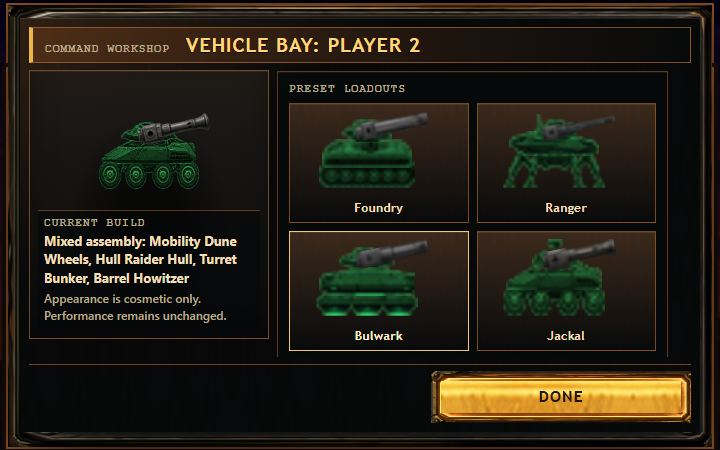
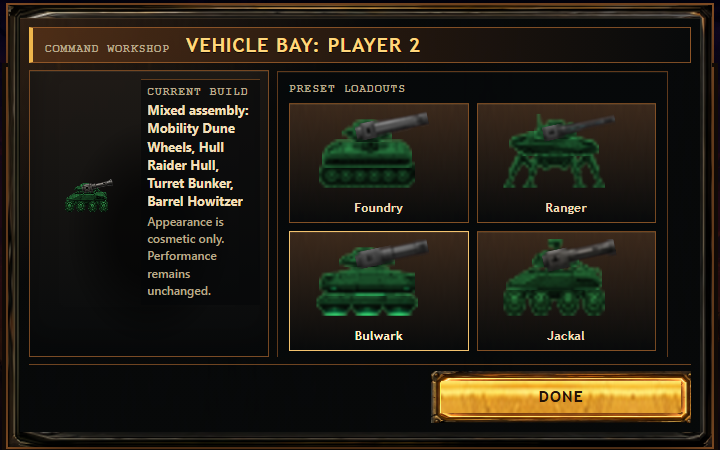
fix(command-center): reconcile browser contracts
Migrate compatibility coverage to direct Garage choices and selected-build inspection.

Preserve 44px compact controls, bound the short-height Vehicle Bay, and refresh provenance-bound Local/Garage evidence.

Changed region(s): [[0.0611, 0.1867, 0.3667, 0.7156]]

diff --git a/e2e/tank-garage.spec.ts b/e2e/tank-garage.spec.ts
@@ -44,27 +44,44 @@ async function assertVehicleBayGeometry(page: Page): Promise<void> {
       return { left: rect.left, right: rect.right, top: rect.top, bottom: rect.bottom, height: rect.height };
     };
     const regions = [
-      dialog.querySelector('.lobby-garage__editor-header'),
-      dialog.querySelector('.lobby-garage__build-summary'),
-      dialog.querySelector('.lobby-garage__preset-group'),
-      dialog.querySelector('.lobby-garage__component-group'),
-      dialog.querySelector('.lobby-garage__close'),
+      dialog.querySelector('.lobby-garage__workshop-header'),
+      dialog.querySelector('.lobby-garage__inspection'),
+      dialog.querySelector('.lobby-garage__editor-scroll'),
+      dialog.querySelector('.lobby-garage__actions'),
     ];
     if (regions.some((region) => region === null)) throw new Error('Vehicle Bay regions are missing');
-    return { dialog: serialize(dialog), regions: regions.map((region) => serialize(region!)) };
+    const editorScroll = regions[2] as HTMLElement;
+    return {
+      dialog: serialize(dialog),
+      regions: regions.map((region) => serialize(region!)),
+      editor: {
+        clientHeight: editorScroll.clientHeight,
+        scrollHeight: editorScroll.scrollHeight,
+        overflowY: getComputedStyle(editorScroll).overflowY,
+      },
+    };
   });
   for (const region of geometry.regions) {
     expect(region.height, 'Vehicle Bay region must remain visible').toBeGreaterThan(4);
     expect(region.left, 'Vehicle Bay region must stay within the dialog').toBeGreaterThanOrEqual(geometry.dialog.left - 1);
     expect(region.right, 'Vehicle Bay region must stay within the dialog').toBeLessThanOrEqual(geometry.dialog.right + 1);
   }
-  const [header, summary, presets, components, done] = geometry.regions;
-  expect(header!.bottom, 'Vehicle Bay header must clear the build summary')
-    .toBeLessThanOrEqual(summary!.top + 1);
-  expect(summary!.bottom, 'Vehicle Bay summary must clear both control bays')
-    .toBeLessThanOrEqual(Math.min(presets!.top, components!.top) + 1);
-  expect(Math.max(presets!.bottom, components!.bottom), 'Vehicle Bay control bays must clear Done')
-    .toBeLessThanOrEqual(done!.top + 1);
+  const [header, inspection, controls, actions] = geometry.regions;
+  expect(header!.bottom, 'Vehicle Bay header must clear its two content regions')
+    .toBeLessThanOrEqual(Math.min(inspection!.top, controls!.top) + 1);
+  const contentOverlapWidth = Math.min(inspection!.right, controls!.right)
+    - Math.max(inspection!.left, controls!.left);
+  const contentOverlapHeight = Math.min(inspection!.bottom, controls!.bottom)
+    - Math.max(inspection!.top, controls!.top);
+  expect(
+    contentOverlapWidth <= 1 || contentOverlapHeight <= 1,
+    'Vehicle Bay inspection and controls must not overlap',
+  ).toBe(true);
+  expect(Math.max(inspection!.bottom, controls!.bottom), 'Vehicle Bay content must clear Done')
+    .toBeLessThanOrEqual(actions!.top + 1);
+  expect(geometry.editor.clientHeight).toBeGreaterThanOrEqual(44);
+  expect(geometry.editor.scrollHeight).toBeGreaterThanOrEqual(geometry.editor.clientHeight);
+  expect(geometry.editor.overflowY).toBe('auto');
 }
 
 async function openTankCustomization(page: Page, ownerLabel: string): Promise<void> {
@@ -251,14 +268,11 @@ test.describe('tank Garage', () => {
         await page.getByRole('button', {
           name: `Apply ${kits[turretIndex]} preset to Player 1`,
         }).click();
-        const barrelSteps = (
-          barrelIndex - turretIndex + kits.length
-        ) % kits.length;
-        for (let step = 0; step < barrelSteps; step++) {
-          await page.getByRole('button', {
-            name: 'Change Player 1 barrel',
-          }).click();
-        }
+        const barrel = page.locator(
+          `.lobby-garage[data-owner="player-1"] [data-slot="barrel"][data-variant="${TANK_KIT_IDS[barrelIndex]}"]`,
+        );
+        await barrel.click();
+        await expect(barrel).toHaveAttribute('aria-pressed', 'true');
         await expect.poll(async () => (
           (await previewComponentAreas(page))[0] ?? 0
         )).toBeGreaterThan(700);
@@ -309,7 +323,7 @@ test.describe('tank Garage', () => {
         name: `Apply ${preset} preset to Player 1`,
       }).click();
       const labels = await page.locator(
-        '.lobby-garage[data-owner="player-1"] .lobby-garage__slot strong',
+        '.lobby-garage[data-owner="player-1"] .lobby-garage__variant[aria-pressed="true"]',
       ).evaluateAll((nodes) => nodes.map((label) => {
         const range = document.createRange();
         range.selectNodeContents(label);
@@ -370,11 +384,12 @@ test.describe('tank Garage', () => {
       });
       await rangerPreset.click();
       await expect(rangerPreset).toBeFocused();
-      const turretSlot = page.getByRole('button', {
-        name: 'Change Player 1 turret',
-      });
-      await turretSlot.click();
-      await expect(turretSlot).toBeFocused();
+      const bunkerTurret = page.locator(
+        '.lobby-garage[data-owner="player-1"] [data-slot="turret"][data-variant="bulwark"]',
+      );
+      await bunkerTurret.click();
+      await expect(bunkerTurret).toBeFocused();
+      await expect(bunkerTurret).toHaveAttribute('aria-pressed', 'true');
       await expectTouchSized(page.locator(
         '.lobby-garage.editing button:visible',
       ));
@@ -431,11 +446,13 @@ test.describe('tank Garage', () => {
     await closeTankCustomization(page);
 
     await expect(page.locator(
-      'button[aria-label="Apply Ranger preset to Player 1"]',
-    )).toHaveAttribute('aria-pressed', 'true');
+      '.lobby-garage[data-owner="player-1"] .lobby-garage__build-summary',
+    )).toHaveText('Ranger loadout');
     await expect(page.locator(
-      'button[aria-label="Apply Bulwark preset to Player 2"]',
-    )).toHaveAttribute('aria-pressed', 'true');
+      '.lobby-garage[data-owner="player-2"] .lobby-garage__build-summary',
+    )).toHaveText('Bulwark loadout');
+    await expect(page.locator('.lobby-preview__spotlight'))
+      .toHaveAttribute('data-owner', 'player-2');
 
     await expect.poll(async () => page.evaluate(() => {
       const signatures = Array.from(
@@ -487,13 +504,12 @@ test.describe('tank Garage', () => {
     await page.getByRole('button', {
       name: 'Apply Jackal preset to Player 1',
     }).click();
-    await page.getByRole('button', {
-      name: 'Change Player 1 turret',
-    }).click();
-
-    await expect(page.getByRole('button', {
-      name: 'Change Player 1 turret',
-    })).toContainText('Cupola');
+    const cupolaTurret = page.locator(
+      '.lobby-garage[data-owner="player-1"] [data-slot="turret"][data-variant="foundry"]',
+    );
+    await cupolaTurret.click();
+    await expect(cupolaTurret).toHaveAttribute('aria-pressed', 'true');
+    await expect(cupolaTurret).toHaveText('Cupola');
     const expectedPartHashes = await page.evaluate(() => {
       const records = (window as typeof window & {
         __tankPartDraws?: Array<{ target: string; hash: number }>;

diff --git a/e2e/garage-spotlight.spec.ts b/e2e/garage-spotlight.spec.ts
@@ -101,7 +101,16 @@ async function garageEntryControl(
 
 async function expectGarageLayout(page: Page): Promise<void> {
   const bay = await visibleLayoutBox(page.locator('.lobby-preview'));
-  await expectInViewport(page, bay);
+  expect(bay.width).toBeGreaterThanOrEqual(180);
+  expect(bay.height).toBeGreaterThanOrEqual(160);
+  const scrollOwner = await page.locator('.lobby-hotseat-scroll').evaluate((element) => ({
+    clientHeight: element.clientHeight,
+    scrollHeight: element.scrollHeight,
+    overflowY: getComputedStyle(element).overflowY,
+  }));
+  expect(scrollOwner.clientHeight).toBeGreaterThan(0);
+  expect(scrollOwner.scrollHeight).toBeGreaterThanOrEqual(scrollOwner.clientHeight);
+  expect(scrollOwner.overflowY).toBe('auto');
 
   const spotlightSelectors = [
     '.lobby-preview__spotlight',
@@ -115,9 +124,11 @@ async function expectGarageLayout(page: Page): Promise<void> {
     expectContained(box, bay, selector);
   }
 
-  const convoy = await visibleLayoutBox(page.locator('.lobby-preview__convoy'));
+  // Local preparation now dedicates this surface to the selected vehicle. The
+  // old convoy remains in the shared preview DOM for Online, but must not
+  // compete with the inspection hierarchy here.
+  await expect(page.locator('.lobby-preview__convoy')).toBeHidden();
   await expect(page.locator('.lobby-controls')).toBeHidden();
-  expectContained(convoy, bay);
 
   const partBoxes: LayoutBox[] = [];
   const parts = page.locator('.lobby-preview__part');
@@ -125,7 +136,6 @@ async function expectGarageLayout(page: Page): Promise<void> {
   for (let index = 0; index < await parts.count(); index++) {
     const box = await visibleLayoutBox(parts.nth(index));
     expectContained(box, bay);
-    expectSeparated(box, convoy);
     for (const earlier of partBoxes) expectSeparated(box, earlier);
     partBoxes.push(box);
   }
@@ -308,11 +318,24 @@ test.describe('Garage spotlight', () => {
       'thumbnail|#4d8ce8|ranger|ranger|ranger|ranger',
     ]);
     await expect(page.locator(
+      '.lobby-garage[data-owner="player-1"] .lobby-garage__build-summary',
+    )).toHaveText('Foundry loadout');
+    await expect(page.locator(
+      '.lobby-garage[data-owner="player-2"] .lobby-garage__build-summary',
+    )).toHaveText('Ranger loadout');
+    await openPlayerGarage(page, 1);
+    await expect(page.locator(
       '.lobby-garage[data-owner="player-1"] [data-preset="foundry"]',
     )).toHaveAttribute('aria-pressed', 'true');
+    await closePlayerGarage(page);
+    await openPlayerGarage(page, 2);
     await expect(page.locator(
       '.lobby-garage[data-owner="player-2"] [data-preset="ranger"]',
     )).toHaveAttribute('aria-pressed', 'true');
+    await closePlayerGarage(page);
+    await page.getByRole('button', {
+      name: 'Inspect Player 1 vehicle, Foundry loadout',
+    }).click();
     await expectGarageLayout(page);
 
     const canvasSizes = await page.evaluate(() => {
@@ -355,12 +378,13 @@ test.describe('Garage spotlight', () => {
     ]);
     const rangerHash = await expectSettledSpotlightHash(page, foundryHash);
 
-    const turret = page.getByRole('button', {
-      name: /Change Player 2 turret/,
-    });
+    const turret = page.locator(
+      '.lobby-garage[data-owner="player-2"] [data-slot="turret"][data-variant="bulwark"]',
+    );
     await expectControlInViewport(page, turret);
     await turret.click();
     await expect(turret).toBeFocused();
+    await expect(turret).toHaveAttribute('aria-pressed', 'true');
     expect(await spotlightParts(page)).toEqual([
       ['Mobility', 'Spider Legs'],
       ['Hull', 'Scout Hull'],

diff --git a/client/src/ui/commandCenter/CommandCenter.css b/client/src/ui/commandCenter/CommandCenter.css
@@ -643,6 +643,17 @@
   display: none;
 }
 
+#lobby .multiplayer-command__local-workspace
+  .lobby-preview__part span {
+  letter-spacing: 0;
+}
+
+#lobby .multiplayer-command__local-workspace
+  .lobby-preview__part strong {
+  white-space: normal;
+  overflow-wrap: anywhere;
+}
+
 #lobby .multiplayer-command__verified-workspace,
 #lobby .multiplayer-command__verified-workspace > .lobby-hotseat,
 #lobby .multiplayer-command__verified-workspace .lobby-hotseat-body {
@@ -2711,6 +2722,16 @@
     text-overflow: ellipsis;
     white-space: nowrap;
   }
+
+}
+
+/* Coarse-pointer emulation can retain the compact shell at a wide CSS
+   viewport. Keep the selected-kit labels fitted in that state as well as in
+   the narrow container branch above. */
+#lobby.is-compact .multiplayer-command__local-workspace
+  .lobby-preview__part span {
+  font-size: 10px;
+  letter-spacing: 0;
 }
 
 @container local-battle-setup (max-width: 460px) {
@@ -3623,8 +3644,20 @@
   }
 
   #lobby .lobby-garage__inspection {
+    box-sizing: border-box;
+    height: 100%;
+    max-height: 100%;
+    grid-template-columns: minmax(96px, 0.9fr) minmax(0, 1.1fr);
+    align-items: center;
     gap: 6px;
     padding: 8px;
+    overflow: hidden;
+  }
+
+  #lobby .lobby-garage__tank-preview {
+    width: 100%;
+    max-height: 100%;
+    object-fit: contain;
   }
 
   #lobby .lobby-garage__inspection-copy {

diff --git a/client/src/ui/Lobby.css b/client/src/ui/Lobby.css
@@ -1950,7 +1950,7 @@
         .lobby-hotseat-battlefield
         select,
       #lobby.is-compact .lobby-hotseat-body .lobby-advanced-trigger {
-        min-height: max(36px, calc(24px / var(--battle-ui-scale, 1)));
+        min-height: max(44px, calc(24px / var(--battle-ui-scale, 1)));
       }
       #lobby.is-compact .lobby-hotseat-body
         .lobby-preparation-section[data-preparation-section='crew-manifest']

diff --git a/e2e/lobby-layout.spec.ts b/e2e/lobby-layout.spec.ts
@@ -452,7 +452,7 @@ test.describe('Lobby layout guardrails', () => {
     await assertMissionPreparation(
       page,
       '#lobby .lobby-hotseat',
-      ['Crew', 'Battlefield'],
+      ['Crew', 'Effective rules'],
       '#lobby .lobby-start',
     );
     await assertLobbyControlReachable(page, '#lobby .lobby-start');

diff --git a/.codearbiter/sprint-log.md b/.codearbiter/sprint-log.md
@@ -4802,3 +4802,8 @@ The fresh R07 review found no remaining CPU defect but identified a supported sa
 - The retained Chromium matrix covers default two-seat, modified Player 2, four-seat and open Garage across 1920x1080, 1440x900, 3440x1440, 844x390, 390x844 and 320x568, plus full-size detail crops and machine-readable viewport, DPR, reflow, browser, dirty-source and commit provenance. All 32 recorded files revalidate against their SHA-256 entries.
 - Direct visual review caught four geometry/material failures beyond containment: an 852px Garage left a large dead field, preset canvases were upscaled from 84x48, forced-colour mode made the modal transparent, and 320x568 initially exposed zero pixels of Player 1. The accepted correction bounds desktop Garage at 700px, adds a 336x192 preset painter profile, supplies an opaque system-Canvas forced-colour surface, and guarantees at least a 44px initial first-seat fold while retaining a 48px compact Deploy action.
 - Fresh parent proof passes the retained evidence writer in 15.2 seconds, 5/5 owning T25/T31 browser cases with 13 designed cross-project skips, 70/70 focused Vitest tests, full TypeScript typecheck and diff hygiene. Keyboard, pointer and emulated touch prove owner selection, direct variants, both scroll owners, Escape/Done focus return, reduced motion, forced colours, missing-art fallback and 200%-equivalent reflow. Captures are Chromium DPR1; touch is Pixel emulation and zoom proof is equivalent reflow rather than browser chrome zoom.
+## 2026-09-18 Command Center T32 hosted compatibility correction - confidence: high - intent: preserve the approved Local/Garage behavior while restoring exact CI coverage
+- Hosted CI run `35375537594` confirmed the product-focused browser project and CodeQL were green, while the two general browser shards still addressed retired cycle controls, inline Garage presets, the old Battlefield heading, and the intentionally hidden Local convoy. The engine job separately completed all 73,124 exhaustive cases but crossed the unchanged strict replay benchmark on two runner samples; no timing threshold or deterministic gate was weakened.
+- Options weighed: recreate compatibility markup, relax the accepted direct-selection and controlled-scroll design, or migrate the stale contracts to the real public owner surfaces while fixing only reproduced product defects. The last option is strong: direct variants, closed loadout summaries, selected-vehicle inspection, semantic section names and the Vehicle Bay control scroller remain causal without reviving superseded UI.
+- Browser reproduction exposed two actual compact defects and both are corrected at the owning CSS seam: Local round controls now retain a 44px target, and the 802x293 Vehicle Bay uses a bounded two-column inspection that clears its docked Done action. Selected-part labels wrap or remove display-only tracking rather than shrinking below their established readable sizes.
+- Fresh local proof passes 97 affected production-browser cases with 46 designed project skips plus the candidate-network guard with its compiled origin declared; the focused cross-project correction matrix passes 27 applicable cases with three skips. All 2,506 client tests, the complete deterministic root check including the strict verified-duel benchmark, production build, ST1's 32 bound sources, zero-vulnerability audit, empty configured secret scan and diff hygiene pass. The 32-capture production evidence packet was regenerated from localhost 4174; T32 remains pending until the corrected exact PR head is committed, pushed, reviewed and green in hosted CI.

diff --git a/.codearbiter/evidence/command-center-workspace-finish/REVIEW.md b/.codearbiter/evidence/command-center-workspace-finish/REVIEW.md
@@ -1,13 +1,13 @@
 # Command Center workspace finish evidence
 
-- HEAD: `6bfb57811240f3f886b697794652983dd755b06c`
+- HEAD: `2617788a74490d899a7bee50d31c02e7574d1d4a`
 - Merge base with `origin/main`: `e332f3c2d1ddb9c0b549b7e34c5906872308becb`
 - Branch: `codex/command-center-launcher`
 - Source dirty at capture: `true`
[3 lines of base64/hex data omitted]
-- Browser command: `E2E_LIVE_URL=http://localhost:4173/ COMMAND_CENTER_WORKSPACE_EVIDENCE_DIR=.codearbiter/evidence/command-center-workspace-finish npx playwright test e2e/pregame-command-center.spec.ts --grep "retains native Local and Garage captures" --project=desktop-fine`
[3 lines of base64/hex data omitted]
+- Browser command: `E2E_LIVE_URL=http://localhost:4174 npx playwright test e2e/pregame-command-center.spec.ts --project=desktop-fine --grep "retains native Local and Garage captures"`
 
 | State | Viewport | DPR | Zoom/reflow | Capture |
 |---|---:|---:|---|---|
